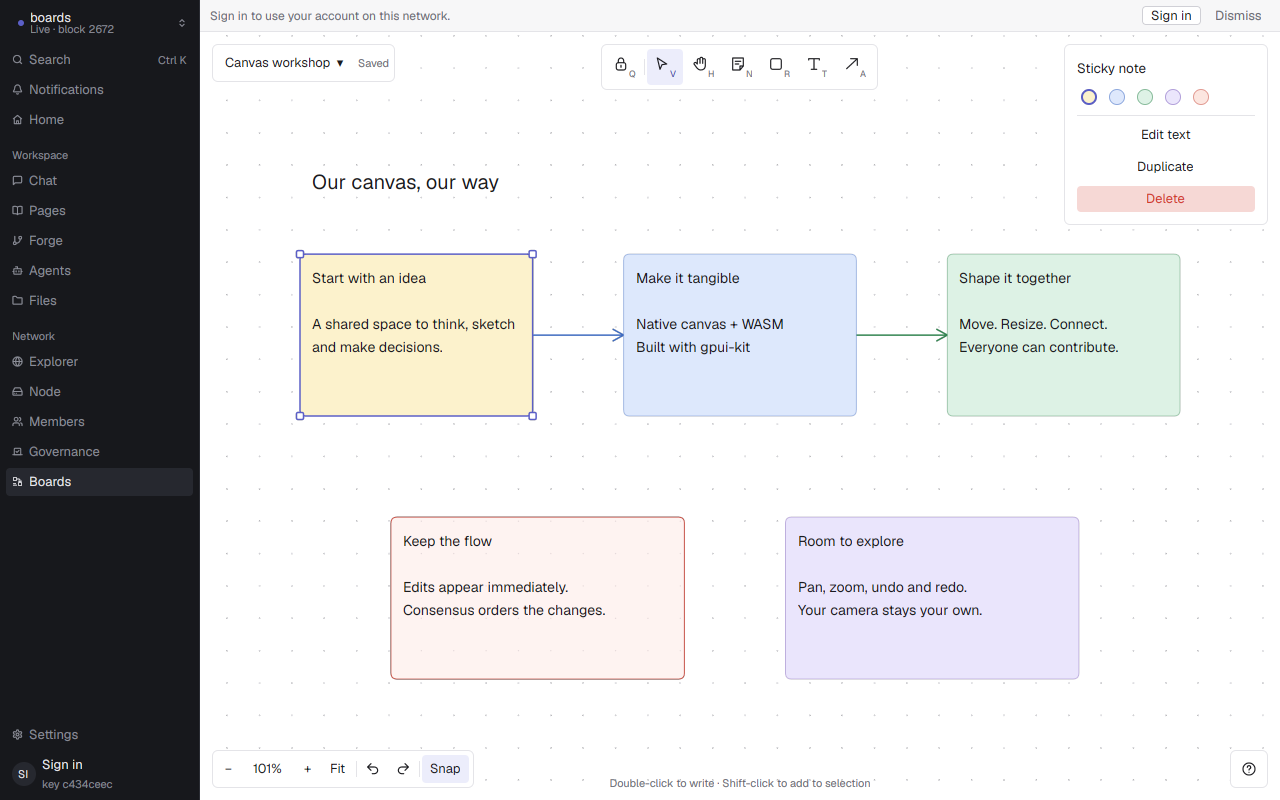
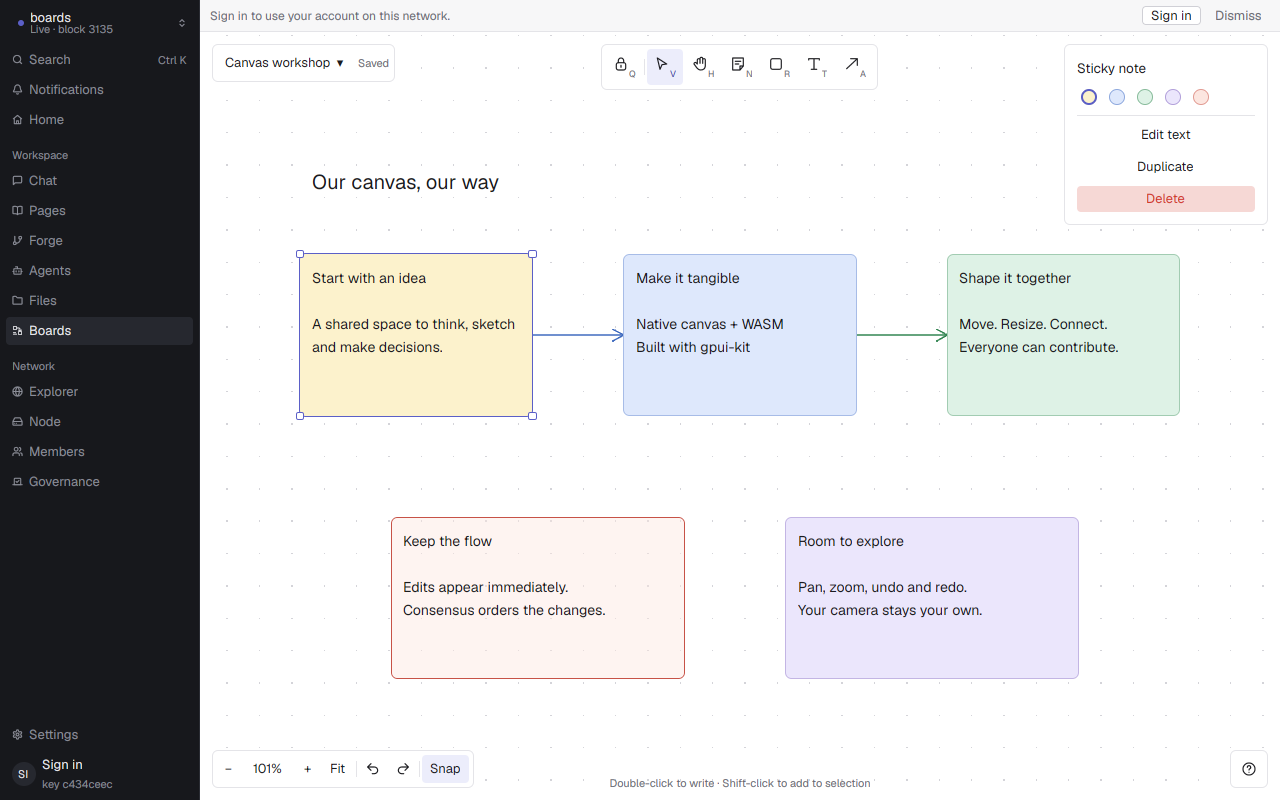
feat(app): seat registry views under Workspace and refresh the canvas captures
A view the registry lists is a workspace tool, so its tab follows the
built-in workspace tabs instead of trailing the network ones. The canvas
captures are retaken from that rail, in both appearances.

Claude-Session: https://claude.ai/code/session_01UExv3Tt5ersbUQ3Wh9e3gP

diff --git a/app/src/shell.rs b/app/src/shell.rs
@@ -1640,19 +1640,22 @@ impl DesktopWindow {
             (ShellTab::Forge, label("forge")),
             (ShellTab::Agents, label("agents")),
             (ShellTab::Files, label("files")),
-            (ShellTab::Explorer, label("explorer")),
-            (ShellTab::Node, label("node")),
-            (ShellTab::Members, label("members")),
-            (ShellTab::Governance, label("governance")),
         ]);
-        // the other views the connected node's registry lists, after the
-        // built-in tabs and in the registry's order; named by their manifests
+        // the other views the connected node's registry lists are workspace
+        // tools: they follow the built-in workspace tabs, in the registry's
+        // order, named by their manifests
         navigation.extend(
             registered
                 .into_iter()
                 .filter(|module| *module != HOME_VIEW)
                 .map(|module| (ShellTab::Registered(module), label(module))),
         );
+        navigation.extend([
+            (ShellTab::Explorer, label("explorer")),
+            (ShellTab::Node, label("node")),
+            (ShellTab::Members, label("members")),
+            (ShellTab::Governance, label("governance")),
+        ]);
         navigation.push((ShellTab::Settings, label("settings")));
         let (sidebar, popover) = {
             let theme = gpui_kit::component::Theme::global(cx);
